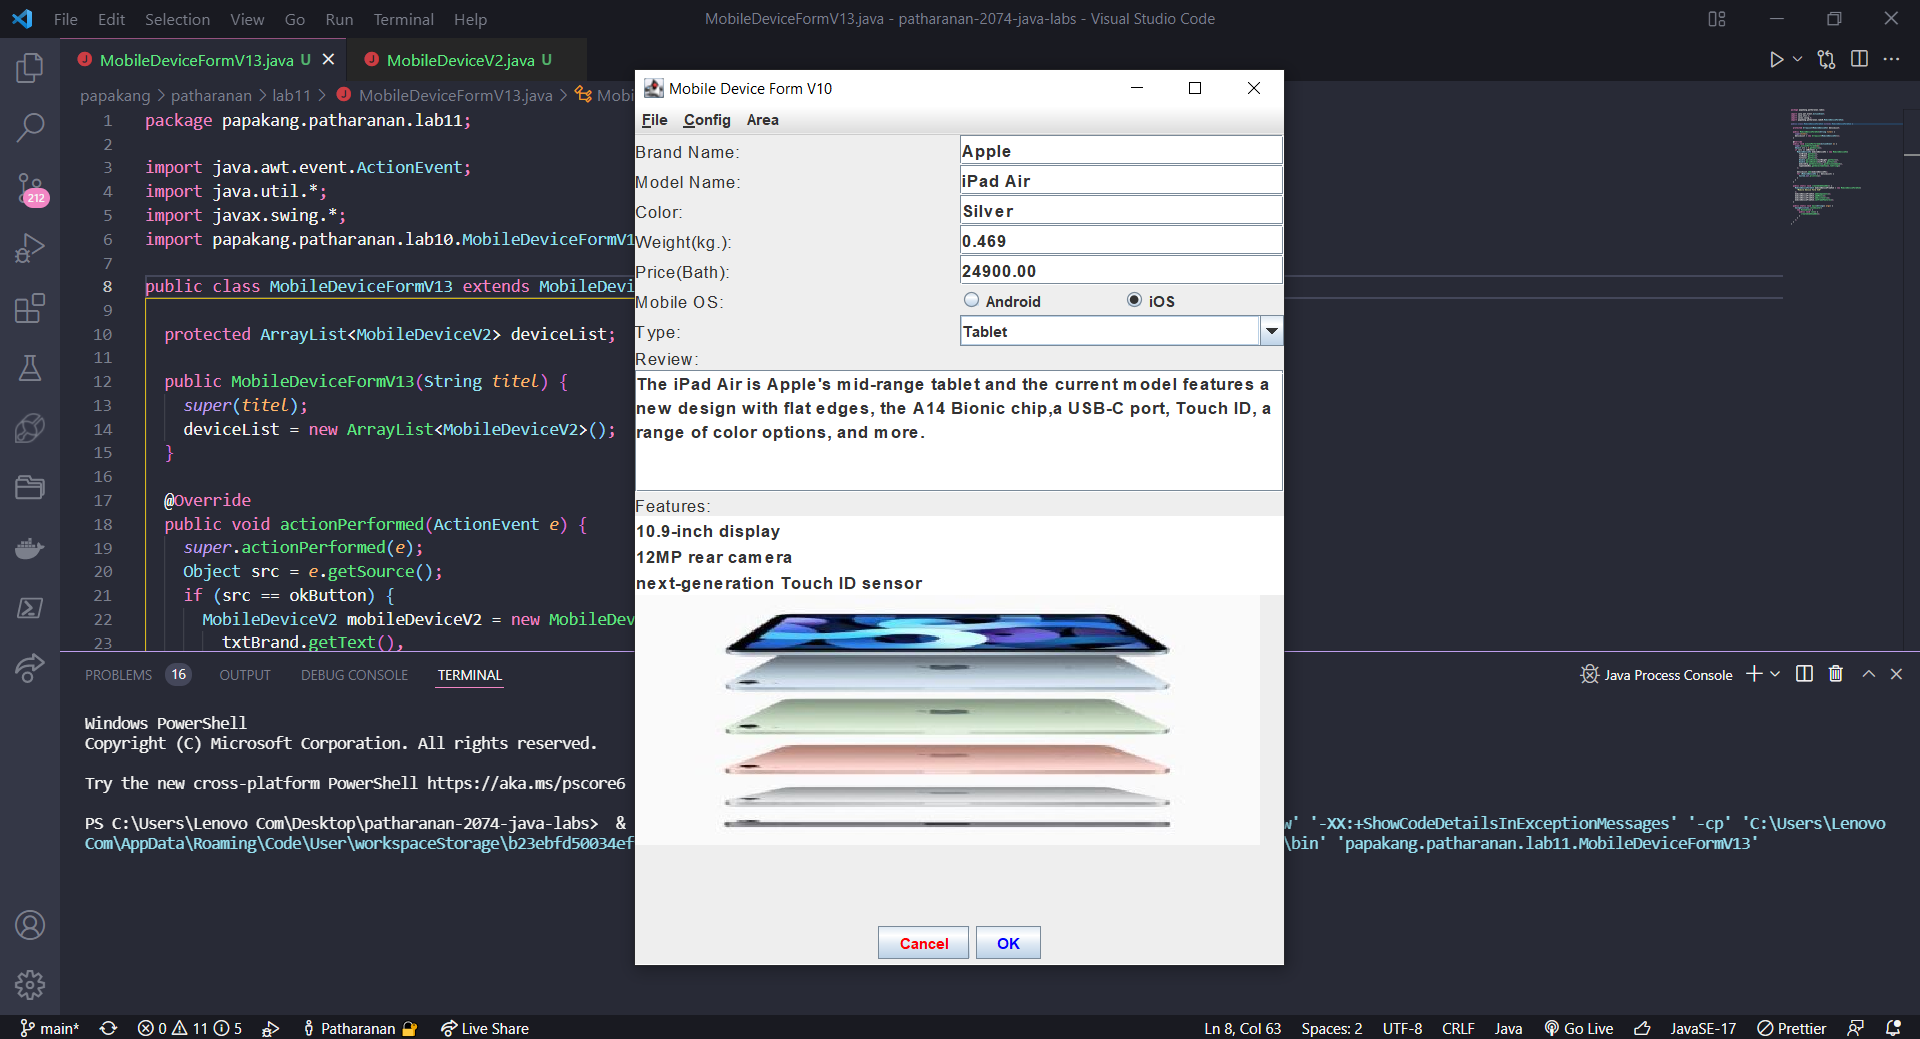
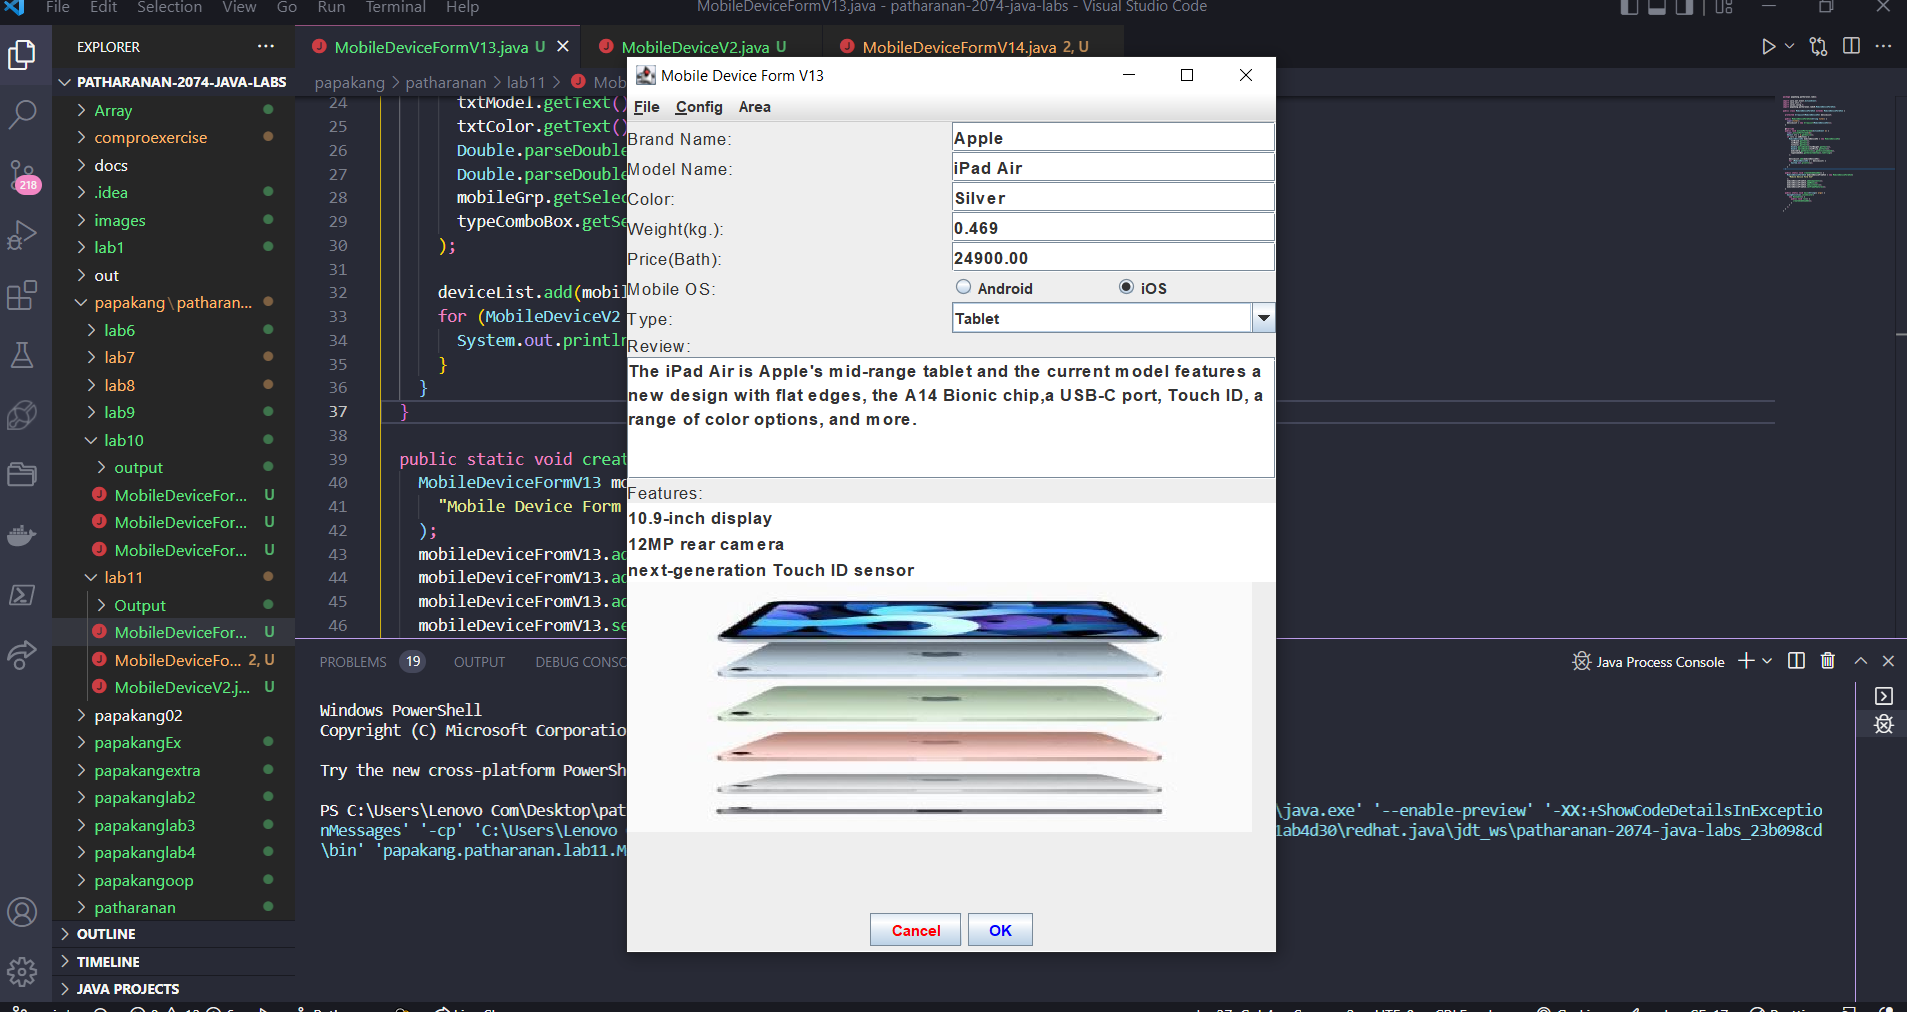
Add files via upload

diff --git a/papakang/patharanan/lab11/MobileDeviceFormV14.java b/papakang/patharanan/lab11/MobileDeviceFormV14.java
@@ -1,0 +1,33 @@
+package papakang.patharanan.lab11;
+
+import java.awt.event.ActionEvent;
+import java.util.*;
+import javax.swing.*;
+
+public class MobileDeviceFormV14 extends MobileDeviceFormV13 {
+
+  public MobileDeviceFormV14(String titel) {
+    super(titel);
+    //TODO Auto-generated constructor stub
+  }
+
+  public static void createAndShowGUI() {
+    MobileDeviceFormV14 mobileDeviceFromV14 = new MobileDeviceFormV14(
+      "Mobile Device Form V14"
+    );
+    mobileDeviceFromV14.addComponents();
+    mobileDeviceFromV14.addMenus();
+    mobileDeviceFromV14.addListeners();
+    mobileDeviceFromV14.setFrameFeatures();
+  }
+
+  public static void main(String[] args) {
+    SwingUtilities.invokeLater(
+      new Runnable() {
+        public void run() {
+          createAndShowGUI();
+        }
+      }
+    );
+  }
+}

diff --git a/papakang/patharanan/lab11/MobileDeviceFormV13.java b/papakang/patharanan/lab11/MobileDeviceFormV13.java
@@ -38,7 +38,7 @@ public class MobileDeviceFormV13 extends MobileDeviceFormV12 {
 
   public static void createAndShowGUI() {
     MobileDeviceFormV13 mobileDeviceFromV13 = new MobileDeviceFormV13(
-      "Mobile Device Form V10"
+      "Mobile Device Form V13"
     );
     mobileDeviceFromV13.addComponents();
     mobileDeviceFromV13.addMenus();
